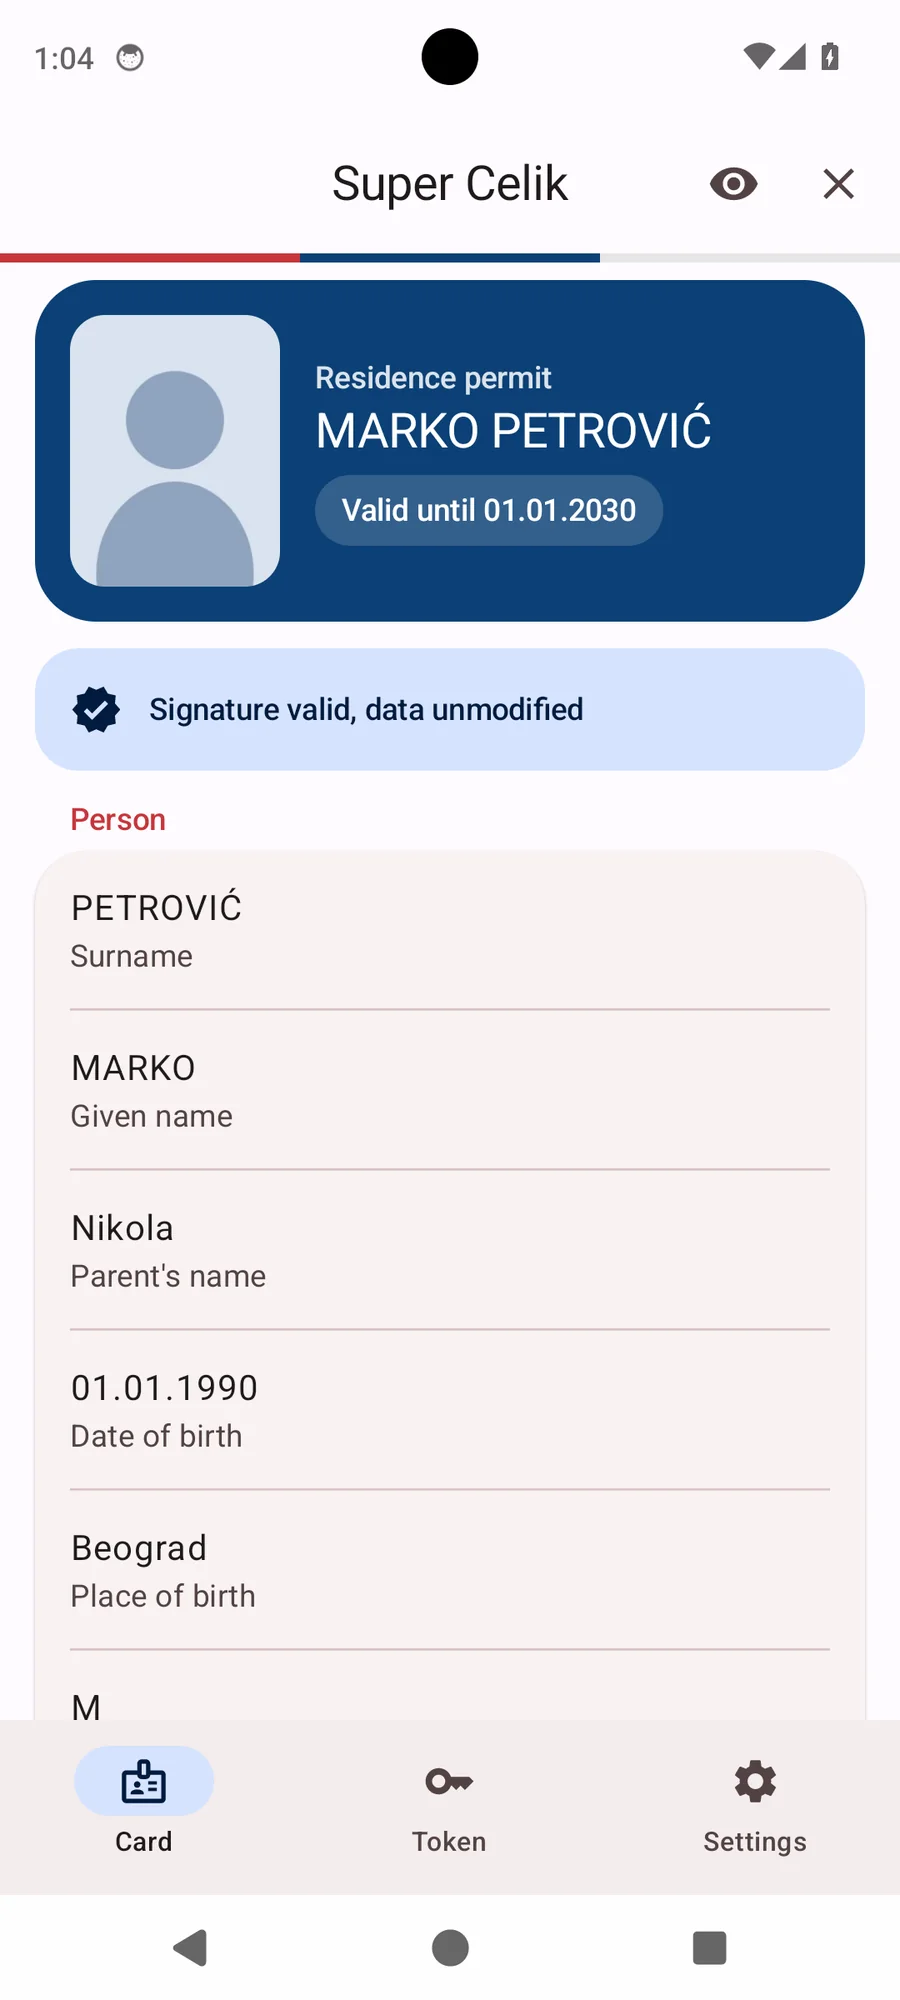
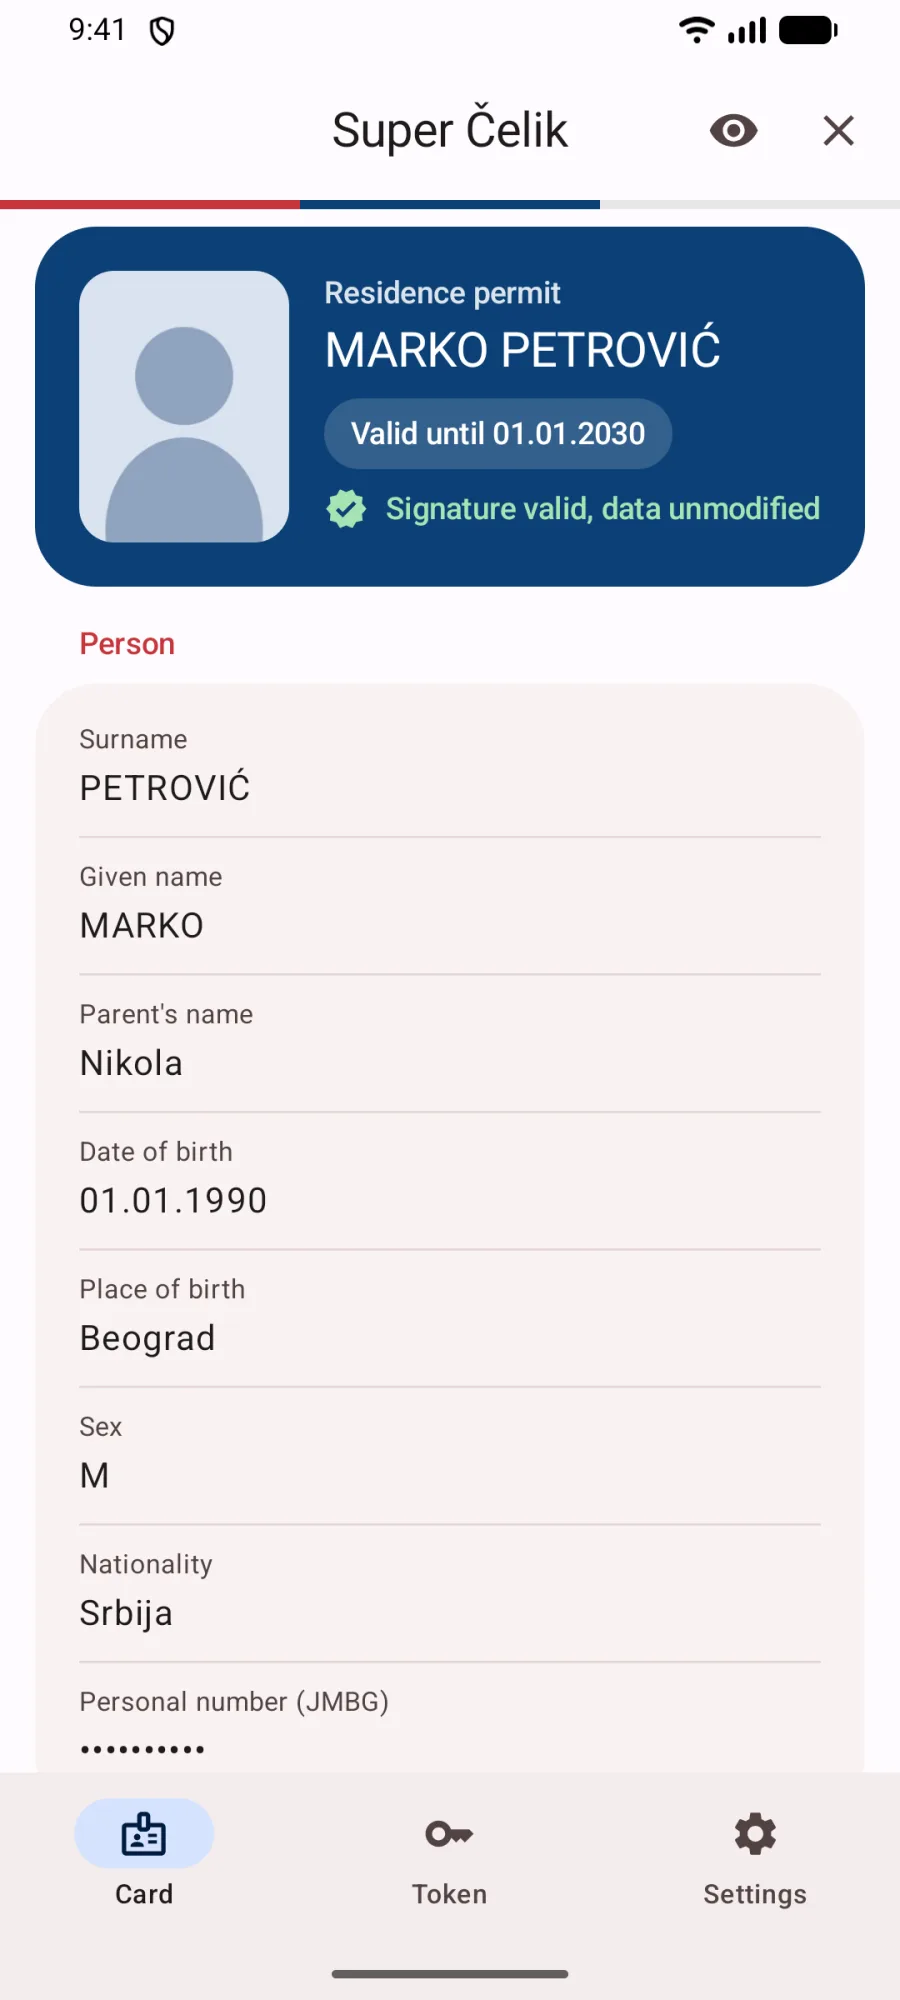
Site: new Android screenshots (en/ru/sr) (#136)

diff --git a/site/index.html b/site/index.html
@@ -557,8 +557,8 @@ const OS=(()=>{const u=navigator.userAgent,p=navigator.platform||"";
  if(/Win/.test(p)||/Windows/.test(u))return"win";if(/Mac/.test(p)||/Mac OS/.test(u))return"mac";if(/Linux|X11/.test(p+u))return"linux";return null})();
 const NAMES={mac:"macOS",win:"Windows",android:"Android",ios:"iPhone",linux:"Linux"};
 let version="";
-// macOS and iPhone screenshots follow the chosen language (English files have no suffix; Serbian Cyrillic uses the Latin ones)
-const SHOT_RE=/^(img\/(?:shot|full)-(?:iphone|iphone-dark|mac|mac-token))(?:-(?:ru|sr))?\.webp$/;
+// macOS, iPhone and Android screenshots follow the chosen language (English files have no suffix; Serbian Cyrillic uses the Latin ones)
+const SHOT_RE=/^(img\/(?:shot|full)-(?:iphone|iphone-dark|mac|mac-token|android|android-token))(?:-(?:ru|sr))?\.webp$/;
 function localizeShots(l){const sfx={ru:"-ru",sr:"-sr",sc:"-sr"}[l]||"";
  document.querySelectorAll("img[src],[data-full]").forEach(e=>{for(const a of ["src","data-full"]){const v=e.getAttribute(a),m=v&&SHOT_RE.exec(v);if(m){const n=m[1]+sfx+".webp";if(n!==v)e.setAttribute(a,n)}}})}
 const ARIA={ru:{lang:"Язык",cpu:"Процессор",shot:"Скриншот"},en:{lang:"Language",cpu:"CPU",shot:"Screenshot"},sr:{lang:"Jezik",cpu:"Procesor",shot:"Snimak ekrana"},sc:{lang:"Језик",cpu:"Процесор",shot:"Снимак екрана"}};
